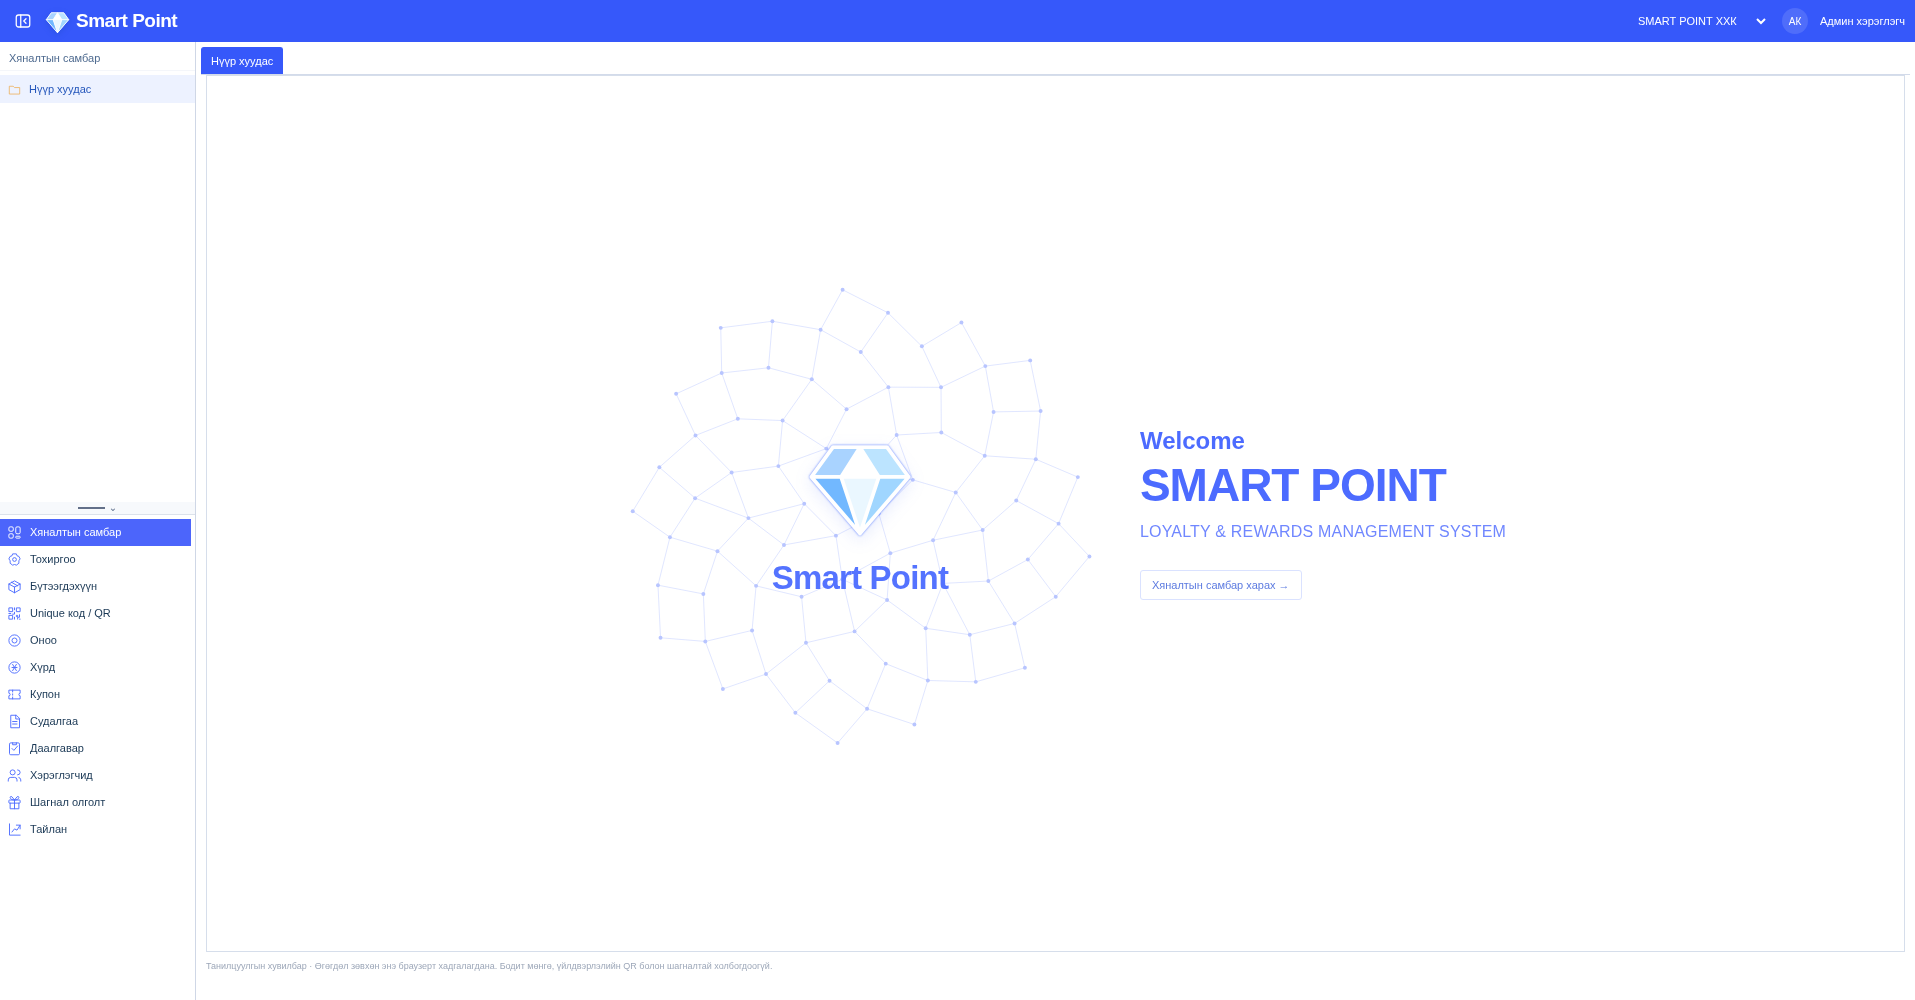
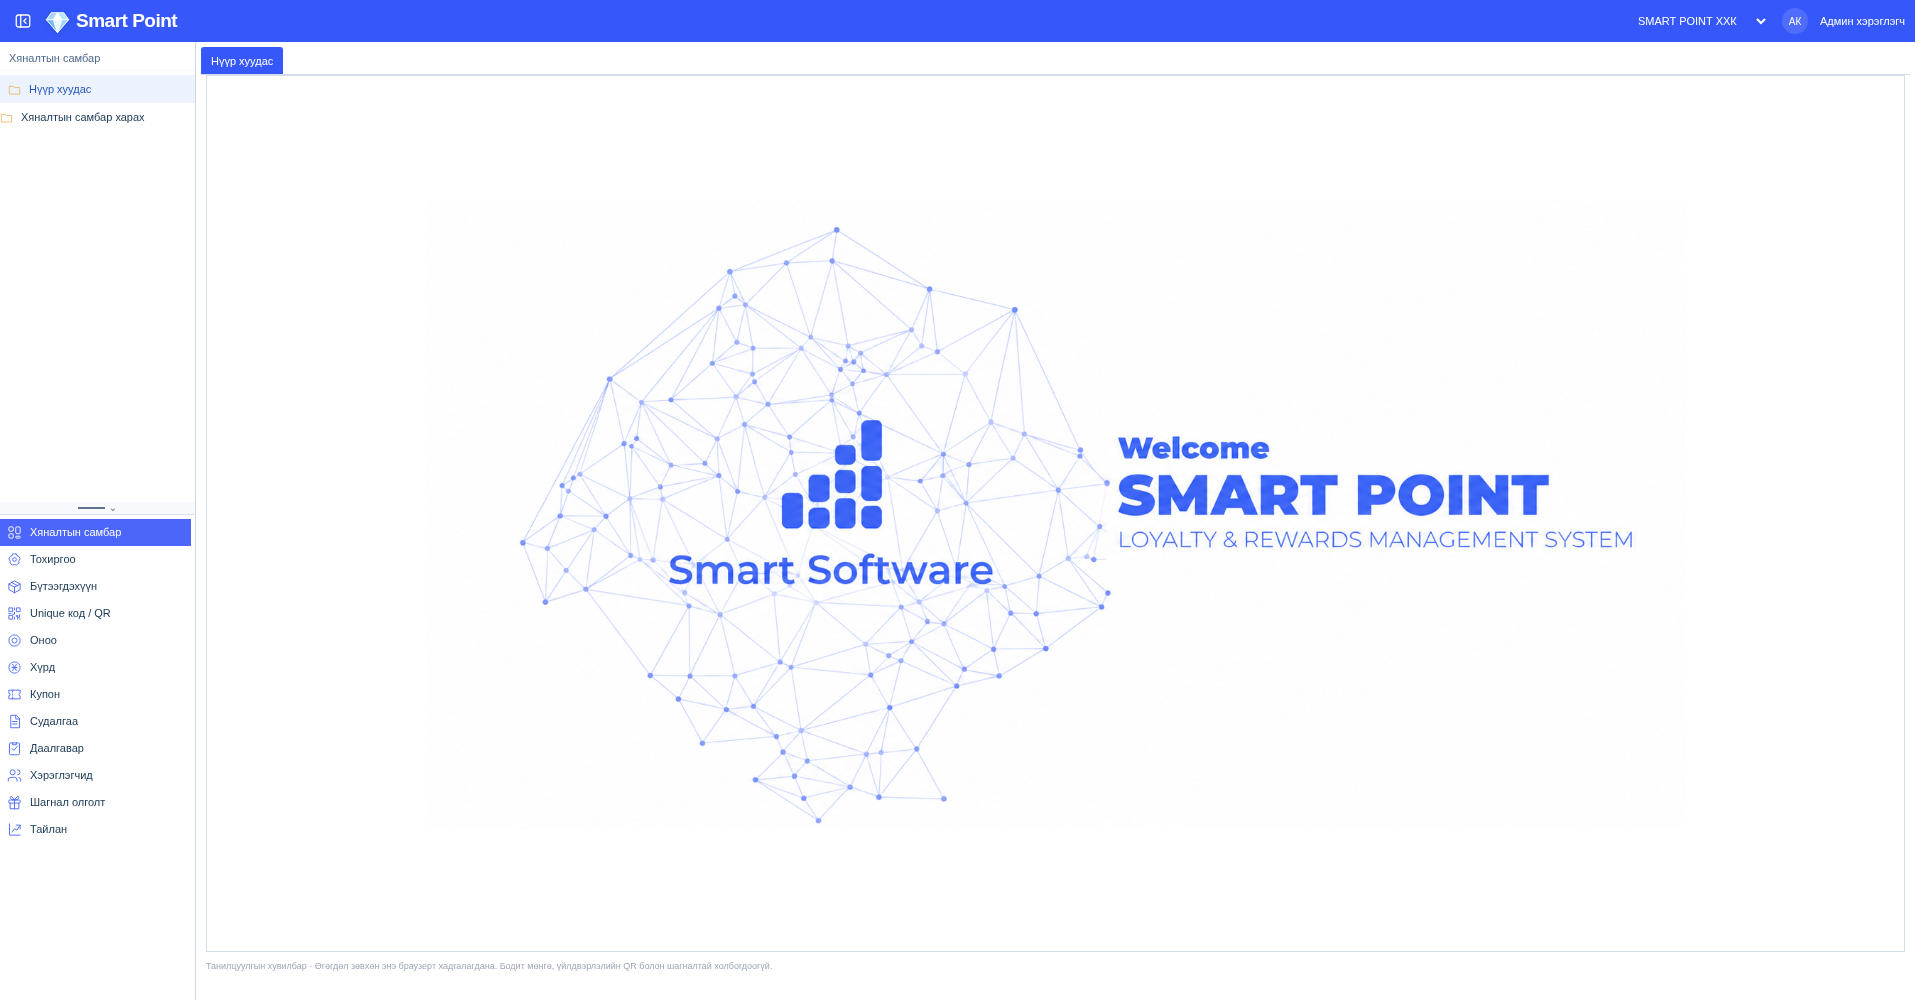
Use reference-inspired Smart Software welcome artwork with Smart Point title

diff --git a/assets/workspace-shell.js b/assets/workspace-shell.js
@@ -3,8 +3,8 @@ let workspaceTabs=['dashboard'];let currentModule='dashboard';
 function containingModule(id){return adminMenu.find(m=>m[0]===id||!!findAdmin(id,m[2]))||adminMenu[0]}
 function folderIcon(){return '<svg viewBox="0 0 20 20" fill="none" stroke="currentColor" stroke-width="1.2"><path d="M2 5h6l2 2h8v10H2Z"/></svg>'}
 function shellChildren(items,depth=0){return items.map(([id,name,children=[]])=>`<div><button class="shell-child ${selectedAdmin===id?'selected-child':''}" data-shell-leaf="${id}" data-admin="${id}" style="--depth:${depth}" ${children.length?`aria-expanded="${expandedMenus.has(id)}"`:selectedAdmin===id?'aria-current="page"':''}><span class="folder-icon">${folderIcon()}</span><span>${name}</span>${children.length?'<small>⌄</small>':''}</button>${children.length&&expandedMenus.has(id)?shellChildren(children,depth+1):''}</div>`).join('')}
-function renderShellNavigation(){const module=containingModule(selectedAdmin);currentModule=module[0];$('nav').innerHTML=`<section class="module-subnavigation"><div class="module-subtitle">${module[1]}</div><div class="module-subitems">${shellChildren(module[2].length?module[2]:[['dashboard','Нүүр хуудас',[]]])}</div></section><div class="sidebar-divider"><span></span>⌄</div><section class="module-list" aria-label="Үндсэн модулиуд">${adminMenu.map(([id,name])=>`<button class="shell-module ${currentModule===id?'current-module':''}" data-shell-module="${id}" data-admin="${id}" title="${name}"><span class="shell-module-icon">${lineIcon(id==='fulfillment'?'gift':id)}</span><span>${name}</span></button>`).join('')}</section>`;document.querySelectorAll('[data-shell-module]').forEach(b=>b.onclick=()=>{document.body.classList.remove('sidebar-collapsed');$('menu').setAttribute('aria-expanded','true');go(b.dataset.shellModule)});document.querySelectorAll('[data-shell-leaf]').forEach(b=>b.onclick=()=>{const item=findAdmin(b.dataset.shellLeaf);if(item[2]?.length){expandedMenus.has(item[0])?expandedMenus.delete(item[0]):expandedMenus.add(item[0]);render();return}go(item[0])});renderWorkspaceTabs()}
+function renderShellNavigation(){const module=containingModule(selectedAdmin);currentModule=module[0];$('nav').innerHTML=`<section class="module-subnavigation"><div class="module-subtitle">${module[1]}</div><div class="module-subitems">${shellChildren(module[2].length?module[2]:[['dashboard','Нүүр хуудас',[]]])}${module[0]==='dashboard'?`<button class="shell-child" id="showDashboardAnalytics"><span class="folder-icon">${folderIcon()}</span><span>Хяналтын самбар харах</span></button>`:''}</div></section><div class="sidebar-divider"><span></span>⌄</div><section class="module-list" aria-label="Үндсэн модулиуд">${adminMenu.map(([id,name])=>`<button class="shell-module ${currentModule===id?'current-module':''}" data-shell-module="${id}" data-admin="${id}" title="${name}"><span class="shell-module-icon">${lineIcon(id==='fulfillment'?'gift':id)}</span><span>${name}</span></button>`).join('')}</section>`;document.querySelectorAll('[data-shell-module]').forEach(b=>b.onclick=()=>{document.body.classList.remove('sidebar-collapsed');$('menu').setAttribute('aria-expanded','true');go(b.dataset.shellModule)});document.querySelectorAll('[data-shell-leaf]').forEach(b=>b.onclick=()=>{const item=findAdmin(b.dataset.shellLeaf);if(item[2]?.length){expandedMenus.has(item[0])?expandedMenus.delete(item[0]):expandedMenus.add(item[0]);render();return}go(item[0])});renderWorkspaceTabs()}
 function renderWorkspaceTabs(){if(!workspaceTabs.includes(selectedAdmin))workspaceTabs.push(selectedAdmin);let bar=$('workspaceTabs');if(!bar){bar=document.createElement('div');bar.id='workspaceTabs';bar.setAttribute('role','tablist');bar.setAttribute('aria-label','Нээлттэй дэлгэцүүд');document.querySelector('main').prepend(bar)}bar.innerHTML=workspaceTabs.map(id=>{const item=findAdmin(id);return `<div class="workspace-tab ${selectedAdmin===id?'current-tab':''}"><button role="tab" aria-selected="${selectedAdmin===id}" data-workspace-tab="${id}">${id==='dashboard'?'Нүүр хуудас':item[1]}</button>${id!=='dashboard'?`<button class="tab-close" data-close-tab="${id}" aria-label="${item[1]} таб хаах">×</button>`:''}</div>`}).join('');bar.querySelectorAll('[data-workspace-tab]').forEach(b=>b.onclick=()=>go(b.dataset.workspaceTab));bar.querySelectorAll('[data-close-tab]').forEach(b=>b.onclick=()=>{const id=b.dataset.closeTab,index=workspaceTabs.indexOf(id);workspaceTabs=workspaceTabs.filter(x=>x!==id);if(selectedAdmin===id)go(workspaceTabs[Math.max(0,index-1)]||'dashboard');else renderWorkspaceTabs()});bar.querySelector('.current-tab')?.scrollIntoView({block:'nearest',inline:'nearest'})}
 
-function workspaceHome(){return `<section class="welcome-workspace"><div class="welcome-art"><img class="welcome-network" src="assets/welcome-network.svg" alt=""><div class="welcome-mark"><img src="assets/point-gem.svg" alt="Point Gem"><strong>Smart Point</strong></div></div><div class="welcome-copy"><span>Welcome</span><h1>SMART POINT</h1><p>LOYALTY &amp; REWARDS MANAGEMENT SYSTEM</p><button id="showDashboardAnalytics">Хяналтын самбар харах →</button></div></section>`}
+function workspaceHome(){return `<section class="welcome-workspace welcome-reference"><img class="welcome-reference-image" src="assets/smart-point-welcome.png" alt="Welcome SMART POINT — LOYALTY &amp; REWARDS MANAGEMENT SYSTEM. Smart Software логотой торон дүрслэл."></section>`}
 function bindWorkspaceHome(){if($('showDashboardAnalytics'))$('showDashboardAnalytics').onclick=()=>{document.body.classList.remove('workspace-home');$('view').innerHTML=dashboard();bind()}}

diff --git a/index.html b/index.html
@@ -1,1 +1,1 @@
-<!doctype html><html lang="mn"><head><meta charset="utf-8"><meta name="viewport" content="width=device-width,initial-scale=1"><title>Smart Point Admin • Удирдлагын систем</title><link rel="icon" type="image/svg+xml" href="assets/point-gem.svg"><link rel="stylesheet" href="assets/style.css?v=20261028-shell"><link rel="stylesheet" href="assets/workspace-shell.css?v=20261028-shell"></head><body><header><button id="menu" aria-label="Цэс">☰</button><strong class="brand-logo"><img src="assets/point-gem.svg" alt="Point Gem" width="29" height="29"><span>Smart Point</span></strong><span class="header-right"><select id="organizationPicker" aria-label="Байгууллага солих"></select> <span class="avatar">АК</span> Админ хэрэглэгч</span></header><aside id="sidebar"><p class="muted">УДИРДЛАГА</p><nav id="nav"></nav><div class="sidebar-bottom">Smart Point v0.1<br><small>Туршилтын орчин • Local demo</small></div></aside><main><div class="title-row"><div><h1 id="title"></h1><p id="subtitle"></p></div><div id="filters"><input type="date" id="from" aria-label="Эхлэх огноо"><span>—</span><input type="date" id="to" aria-label="Дуусах огноо"><button data-days="7" class="selected">7 хоног</button><button data-days="30">30 хоног</button><button data-days="90">90 хоног</button></div></div><div id="view"></div><footer>Танилцуулгын хувилбар · Өгөгдөл зөвхөн энэ браузерт хадгалагдана. Бодит мөнгө, үйлдвэрлэлийн QR болон шагналтай холбогдоогүй.</footer></main><dialog id="dialog"><h2 id="dialogTitle"></h2><div id="dialogBody"></div><button id="close">Хаах</button></dialog><div id="toast" role="status"></div><script src="assets/vendor/qrcode.js"></script><script src="assets/codes.js?v=20261028-shell"></script><script src="assets/points.js?v=20261028-shell"></script><script src="assets/wheels.js?v=20261028-shell"></script><script src="assets/coupons.js?v=20261028-shell"></script><script src="assets/engagement.js?v=20261028-shell"></script><script src="assets/admin-settings.js?v=20261028-shell"></script><script src="assets/workspace-shell.js?v=20261028-shell"></script><script src="assets/app.js?v=20261028-shell"></script></body></html>
+<!doctype html><html lang="mn"><head><meta charset="utf-8"><meta name="viewport" content="width=device-width,initial-scale=1"><title>Smart Point Admin • Удирдлагын систем</title><link rel="icon" type="image/svg+xml" href="assets/point-gem.svg"><link rel="stylesheet" href="assets/style.css?v=20261028-reference-art"><link rel="stylesheet" href="assets/workspace-shell.css?v=20261028-reference-art"></head><body><header><button id="menu" aria-label="Цэс">☰</button><strong class="brand-logo"><img src="assets/point-gem.svg" alt="Point Gem" width="29" height="29"><span>Smart Point</span></strong><span class="header-right"><select id="organizationPicker" aria-label="Байгууллага солих"></select> <span class="avatar">АК</span> Админ хэрэглэгч</span></header><aside id="sidebar"><p class="muted">УДИРДЛАГА</p><nav id="nav"></nav><div class="sidebar-bottom">Smart Point v0.1<br><small>Туршилтын орчин • Local demo</small></div></aside><main><div class="title-row"><div><h1 id="title"></h1><p id="subtitle"></p></div><div id="filters"><input type="date" id="from" aria-label="Эхлэх огноо"><span>—</span><input type="date" id="to" aria-label="Дуусах огноо"><button data-days="7" class="selected">7 хоног</button><button data-days="30">30 хоног</button><button data-days="90">90 хоног</button></div></div><div id="view"></div><footer>Танилцуулгын хувилбар · Өгөгдөл зөвхөн энэ браузерт хадгалагдана. Бодит мөнгө, үйлдвэрлэлийн QR болон шагналтай холбогдоогүй.</footer></main><dialog id="dialog"><h2 id="dialogTitle"></h2><div id="dialogBody"></div><button id="close">Хаах</button></dialog><div id="toast" role="status"></div><script src="assets/vendor/qrcode.js"></script><script src="assets/codes.js?v=20261028-reference-art"></script><script src="assets/points.js?v=20261028-reference-art"></script><script src="assets/wheels.js?v=20261028-reference-art"></script><script src="assets/coupons.js?v=20261028-reference-art"></script><script src="assets/engagement.js?v=20261028-reference-art"></script><script src="assets/admin-settings.js?v=20261028-reference-art"></script><script src="assets/workspace-shell.js?v=20261028-reference-art"></script><script src="assets/app.js?v=20261028-reference-art"></script></body></html>

diff --git a/assets/workspace-shell.css b/assets/workspace-shell.css
@@ -6,3 +6,4 @@ main{margin:42px 0 0 196px;padding:0 10px 18px;min-height:calc(100vh - 42px);max
 @media(max-width:1000px){#sidebar{width:180px}main{margin-left:180px}.product-grid{grid-template-columns:repeat(2,minmax(0,1fr))}}@media(max-width:600px){header{padding:0 8px;gap:6px}header .brand-logo{font-size:15px}header .brand-logo img{width:20px;height:20px}#organizationPicker{max-width:125px;width:125px;font-size:9px}.header-right{gap:3px}#sidebar{display:none;width:220px;inset:42px auto 0;box-shadow:8px 0 25px #17314d26;z-index:20}#sidebar.open{display:flex}main,.sidebar-collapsed main{margin-left:0;padding:0 10px 15px}.module-subnavigation{height:42%;min-height:120px}#nav .shell-module,#nav .shell-child{font-size:12px;min-height:32px}#nav .shell-module>span:last-child,#nav .shell-child>span:nth-child(2){font-size:12px}.sidebar-collapsed #sidebar{width:220px}.sidebar-collapsed .module-subnavigation{display:flex}.sidebar-collapsed .sidebar-divider{display:flex}.sidebar-collapsed #nav .shell-module>span:last-child{display:inline}.sidebar-collapsed #nav .shell-module{justify-content:flex-start;padding:5px 7px}.title-row{gap:6px}h1{font-size:21px}.product-grid,.coupon-grid{grid-template-columns:1fr}#workspaceTabs{margin-bottom:14px}.workspace-tab button{font-size:10px}#filters{flex-wrap:wrap}.panel{padding:12px}.product-toolbar .add-product{width:auto}.stat-value{font-size:22px}.stat small{font-size:9px}}
 @media print{#workspaceTabs{display:none!important}main{margin:0;padding:0}}
 .workspace-home .title-row{display:none}.welcome-workspace{min-height:calc(100vh - 123px);display:flex;align-items:center;justify-content:center;gap:0;overflow:hidden;border:1px solid #d6deeb;margin-top:-16px}.welcome-art{position:relative;width:550px;height:540px;flex:0 1 550px}.welcome-network{display:block;width:100%;height:100%;object-fit:contain}.welcome-mark{position:absolute;inset:0;display:flex;align-items:center;justify-content:center;flex-direction:column;gap:20px}.welcome-mark>img{width:108px;height:108px;filter:drop-shadow(0 0 1px #567aff) drop-shadow(0 5px 8px #4c6dfb20)}.welcome-mark strong{font-size:33px;color:#5473ff;letter-spacing:-.8px}.welcome-copy{color:#4c6bff;margin-left:-15px;z-index:1;flex-shrink:1;padding:20px}.welcome-copy>span{font-size:24px;font-weight:800}.welcome-copy h1{font-size:46px;font-weight:850;color:#4c6bff;line-height:1.1;letter-spacing:-1px;margin:5px 0}.welcome-copy p{font-size:16px;color:#7087ff;font-weight:300;letter-spacing:.2px}.welcome-copy button{border-color:#dae2ff;color:#5d7be0;background:#fff;font-size:11px;margin-top:17px}.workspace-home footer{padding-top:9px}@media(max-width:1150px){.welcome-art{flex-basis:370px;width:370px;height:450px}.welcome-copy h1{font-size:36px}.welcome-copy>span{font-size:20px}.welcome-copy p{font-size:11px}.welcome-mark strong{font-size:26px}.welcome-mark>img{width:85px;height:85px}}@media(max-width:750px){.welcome-workspace{flex-direction:column;gap:0;justify-content:center;padding:20px 10px}.welcome-art{flex:none;width:280px;height:280px}.welcome-copy{text-align:center;margin:-10px 0 0;padding:10px}.welcome-copy h1{font-size:32px}.welcome-copy p{font-size:9px}.welcome-mark strong{font-size:24px}.welcome-mark>img{width:75px;height:75px}}
+.welcome-reference{padding:24px;min-height:calc(100vh - 123px)}.welcome-reference-image{display:block;width:min(100%,1260px);height:auto;max-height:calc(100vh - 175px);object-fit:contain}.welcome-reference .welcome-reference-image{flex-shrink:1}@media(max-width:750px){.welcome-reference{padding:12px;min-height:calc(100vh - 123px);display:flex;justify-content:center}.welcome-reference-image{width:100%;height:auto;max-height:none}}

diff --git a/README.md b/README.md
@@ -157,3 +157,7 @@ Smart Distribution reference-ийн цэнхэр нимгэн толгой, ца
 - Нүүр хуудасны welcome доторх «Хяналтын самбар харах» товчоор өмнөх статистикийг харна.
 - Desktop sidebar нарийсгах, mobile drawer нээх/хаах хэвээр. Header байгууллага солих боломжтой.
 - Визуал override нь assets/workspace-shell.css, navigation/tab shell нь assets/workspace-shell.js. Хуучин assets/style.css нь module-specific үндсэн style-уудтай хэвээр.
+
+### Welcome artwork
+
+Нүүр хуудсанд assets/smart-point-welcome.png зураг ашиглана. Хэрэглэгчийн screenshot-д тулгуурлан Smart Software лого, торон дүрслэл, Welcome бичгийг дахин дүрсэлж, гол нэрийг SMART POINT, тайлбарыг LOYALTY & REWARDS MANAGEMENT SYSTEM болгон сольсон. Эх сайт read-only хүсэлтэд 403 өгсөн тул эх asset-ийг шууд хуулсан pixel-identical файл биш. Өмнөх статистикийг зүүн дээд дэд цэсний «Хяналтын самбар харах» товчоор нээнэ. Үндсэн цэс, бүртгэлийн өгөгдлийг өөрчлөөгүй.
